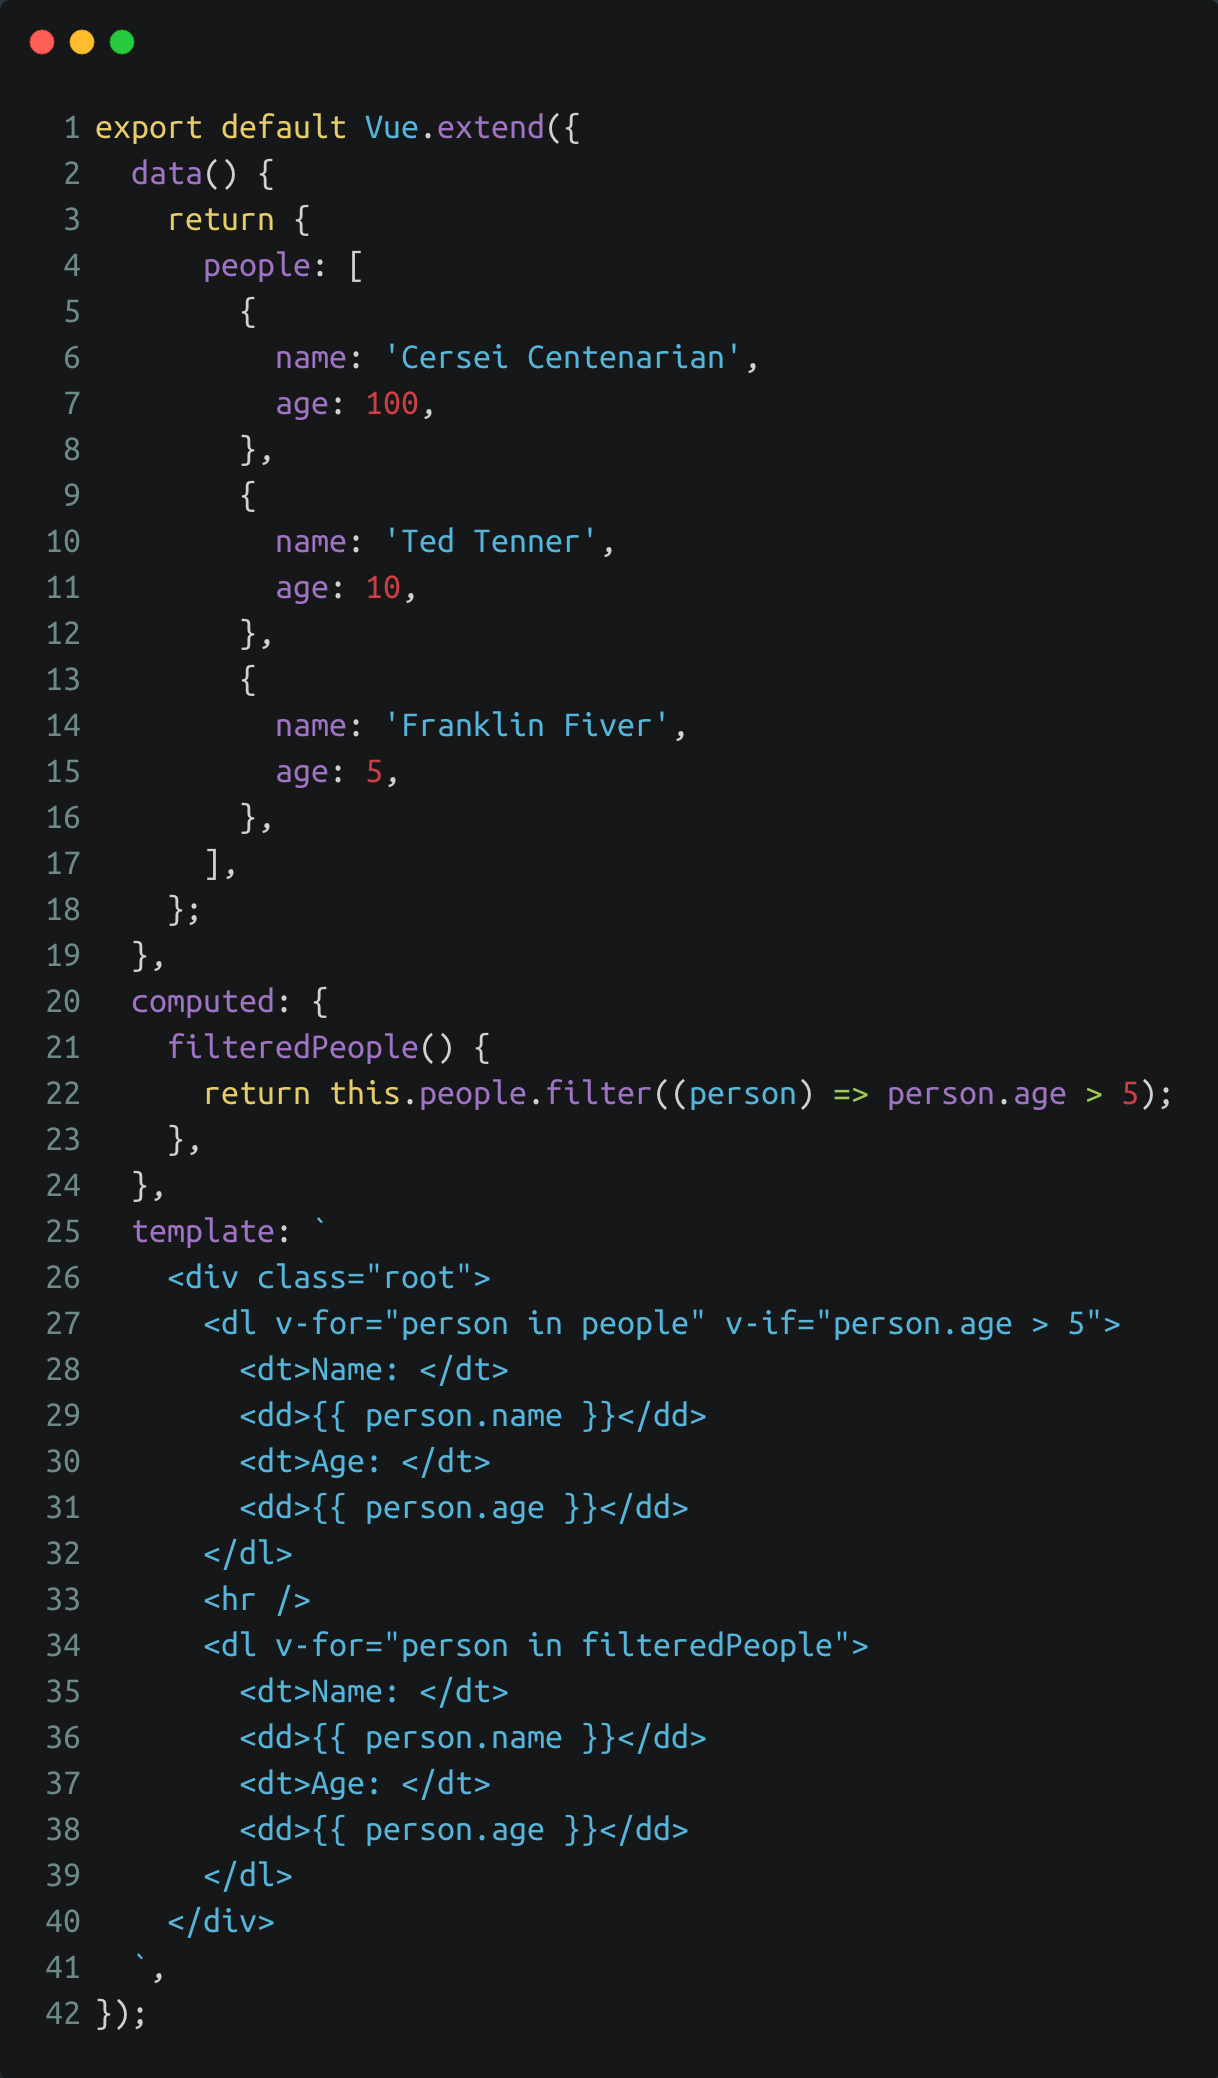
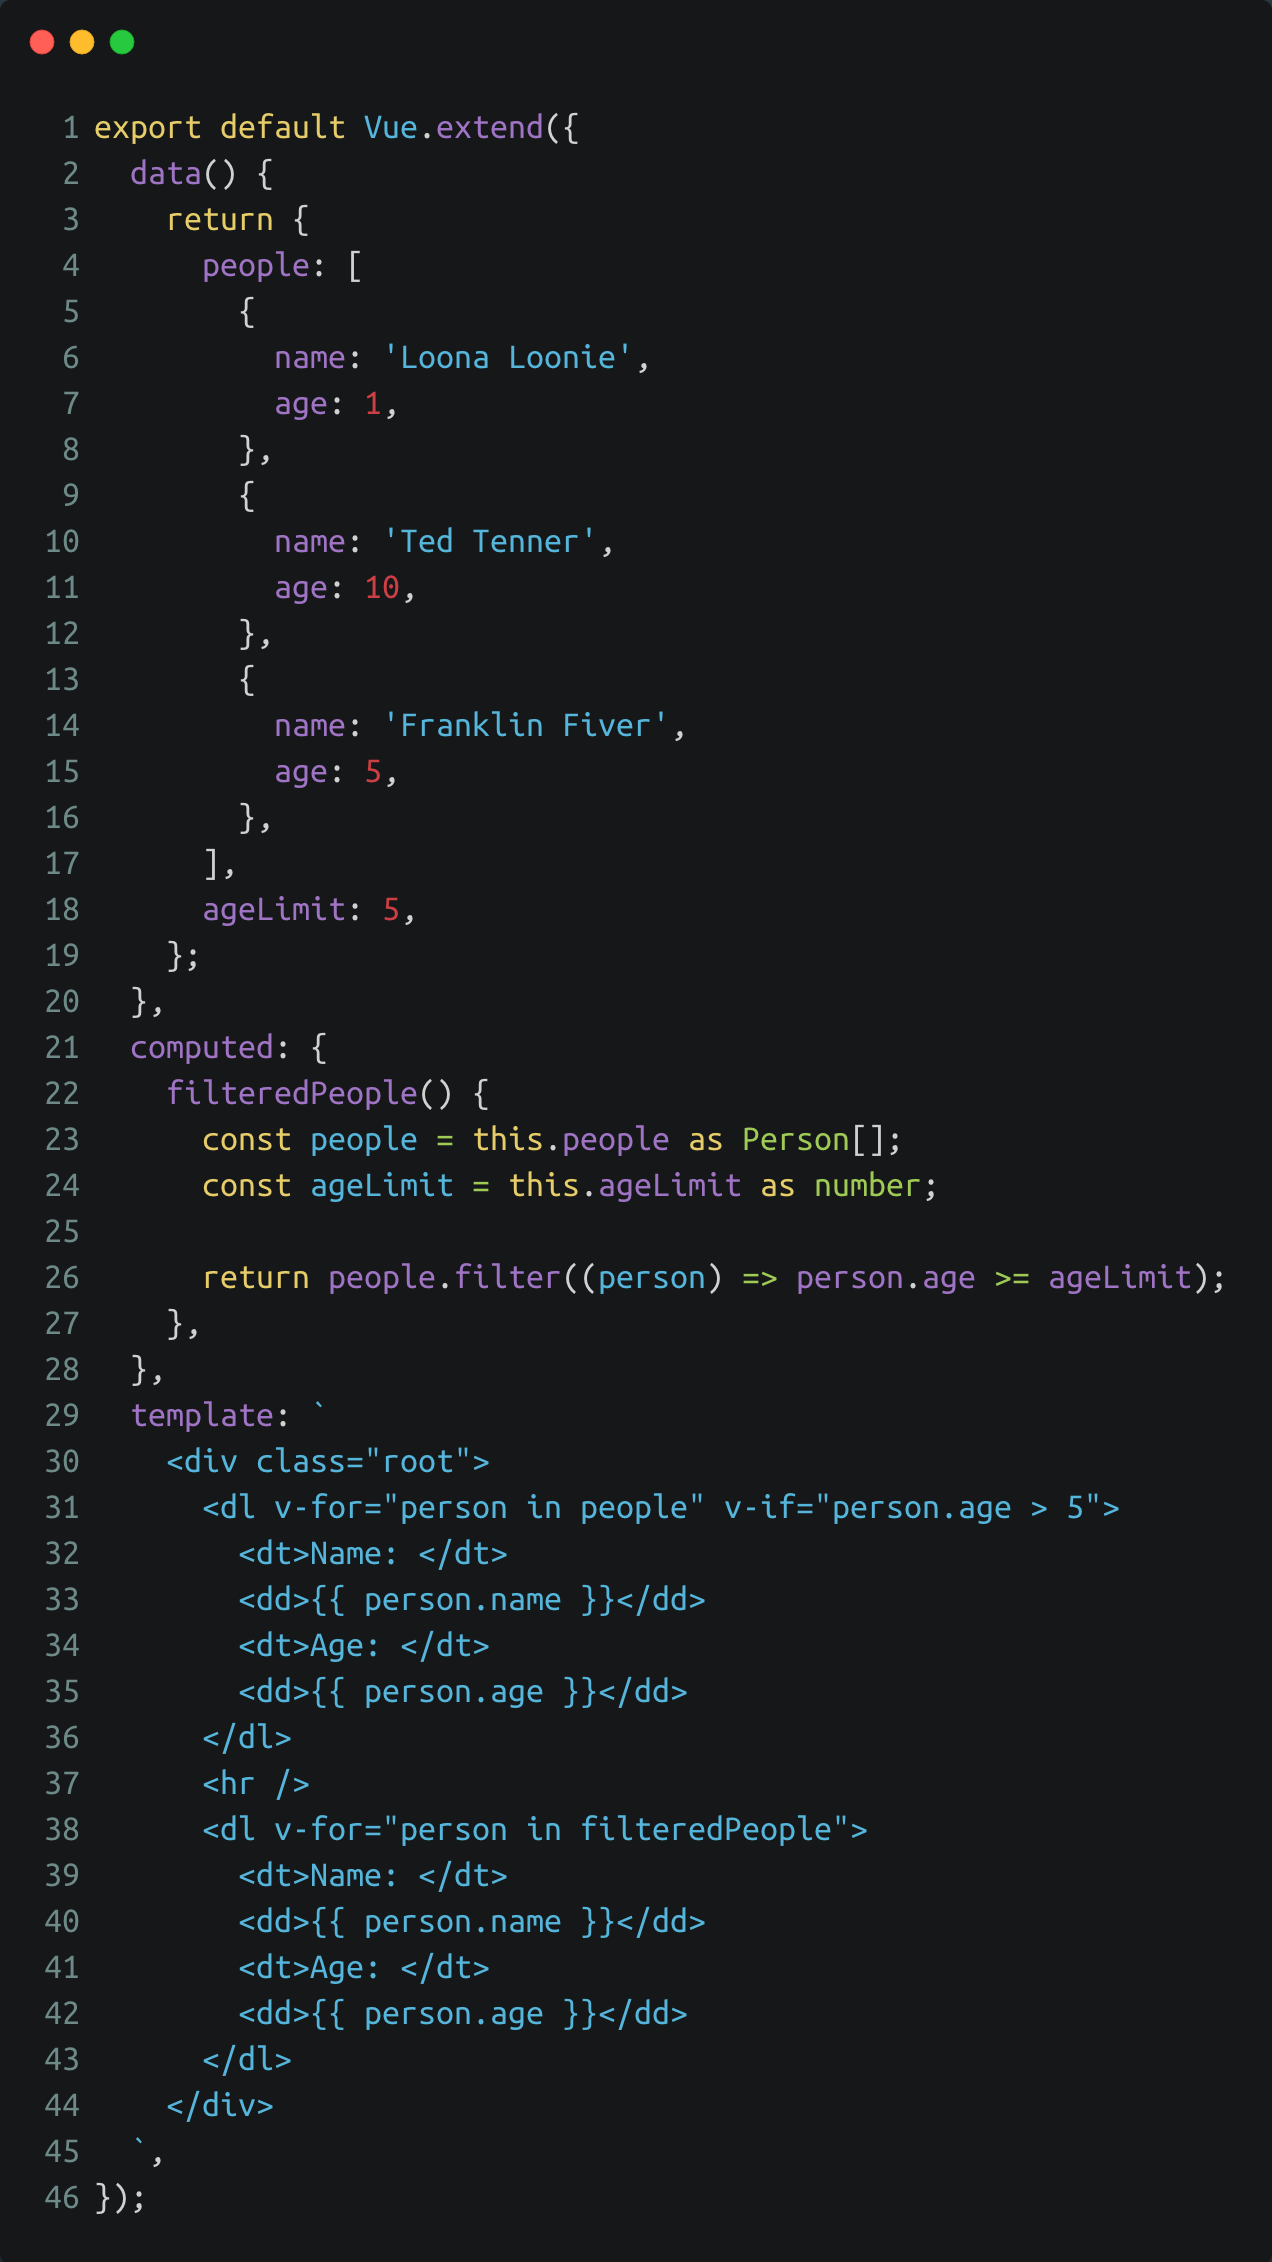
Fixed typescript warning for v-if/v-for example

diff --git a/code/examples/vue2-v-for-v-if-1/component.js b/code/examples/vue2-v-for-v-if-1/component.js
@@ -4,8 +4,8 @@ export default Vue.extend({
         return {
             people: [
                 {
-                    name: 'Cersei Centenarian',
-                    age: 100,
+                    name: 'Loona Loonie',
+                    age: 1,
                 },
                 {
                     name: 'Ted Tenner',
@@ -16,11 +16,14 @@ export default Vue.extend({
                     age: 5,
                 },
             ],
+            ageLimit: 5,
         };
     },
     computed: {
         filteredPeople() {
-            return this.people.filter((person) => person.age > 5);
+            const people = this.people;
+            const ageLimit = this.ageLimit;
+            return people.filter((person) => person.age >= ageLimit);
         },
     },
     template: `

diff --git a/code/examples/vue2-v-for-v-if-1/component.ts b/code/examples/vue2-v-for-v-if-1/component.ts
@@ -1,12 +1,17 @@
 import Vue from 'vue2';
 
+type Person = {
+  name: string,
+  age: number,
+}
+
 export default Vue.extend({
   data() {
     return {
       people: [
         {
-          name: 'Cersei Centenarian',
-          age: 100,
+          name: 'Loona Loonie',
+          age: 1,
         },
         {
           name: 'Ted Tenner',
@@ -17,11 +22,15 @@ export default Vue.extend({
           age: 5,
         },
       ],
+      ageLimit: 5,
     };
   },
   computed: {
     filteredPeople() {
-      return this.people.filter((person) => person.age > 5);
+      const people = this.people as Person[];
+      const ageLimit = this.ageLimit as number;
+
+      return people.filter((person) => person.age >= ageLimit);
     },
   },
   template: `
